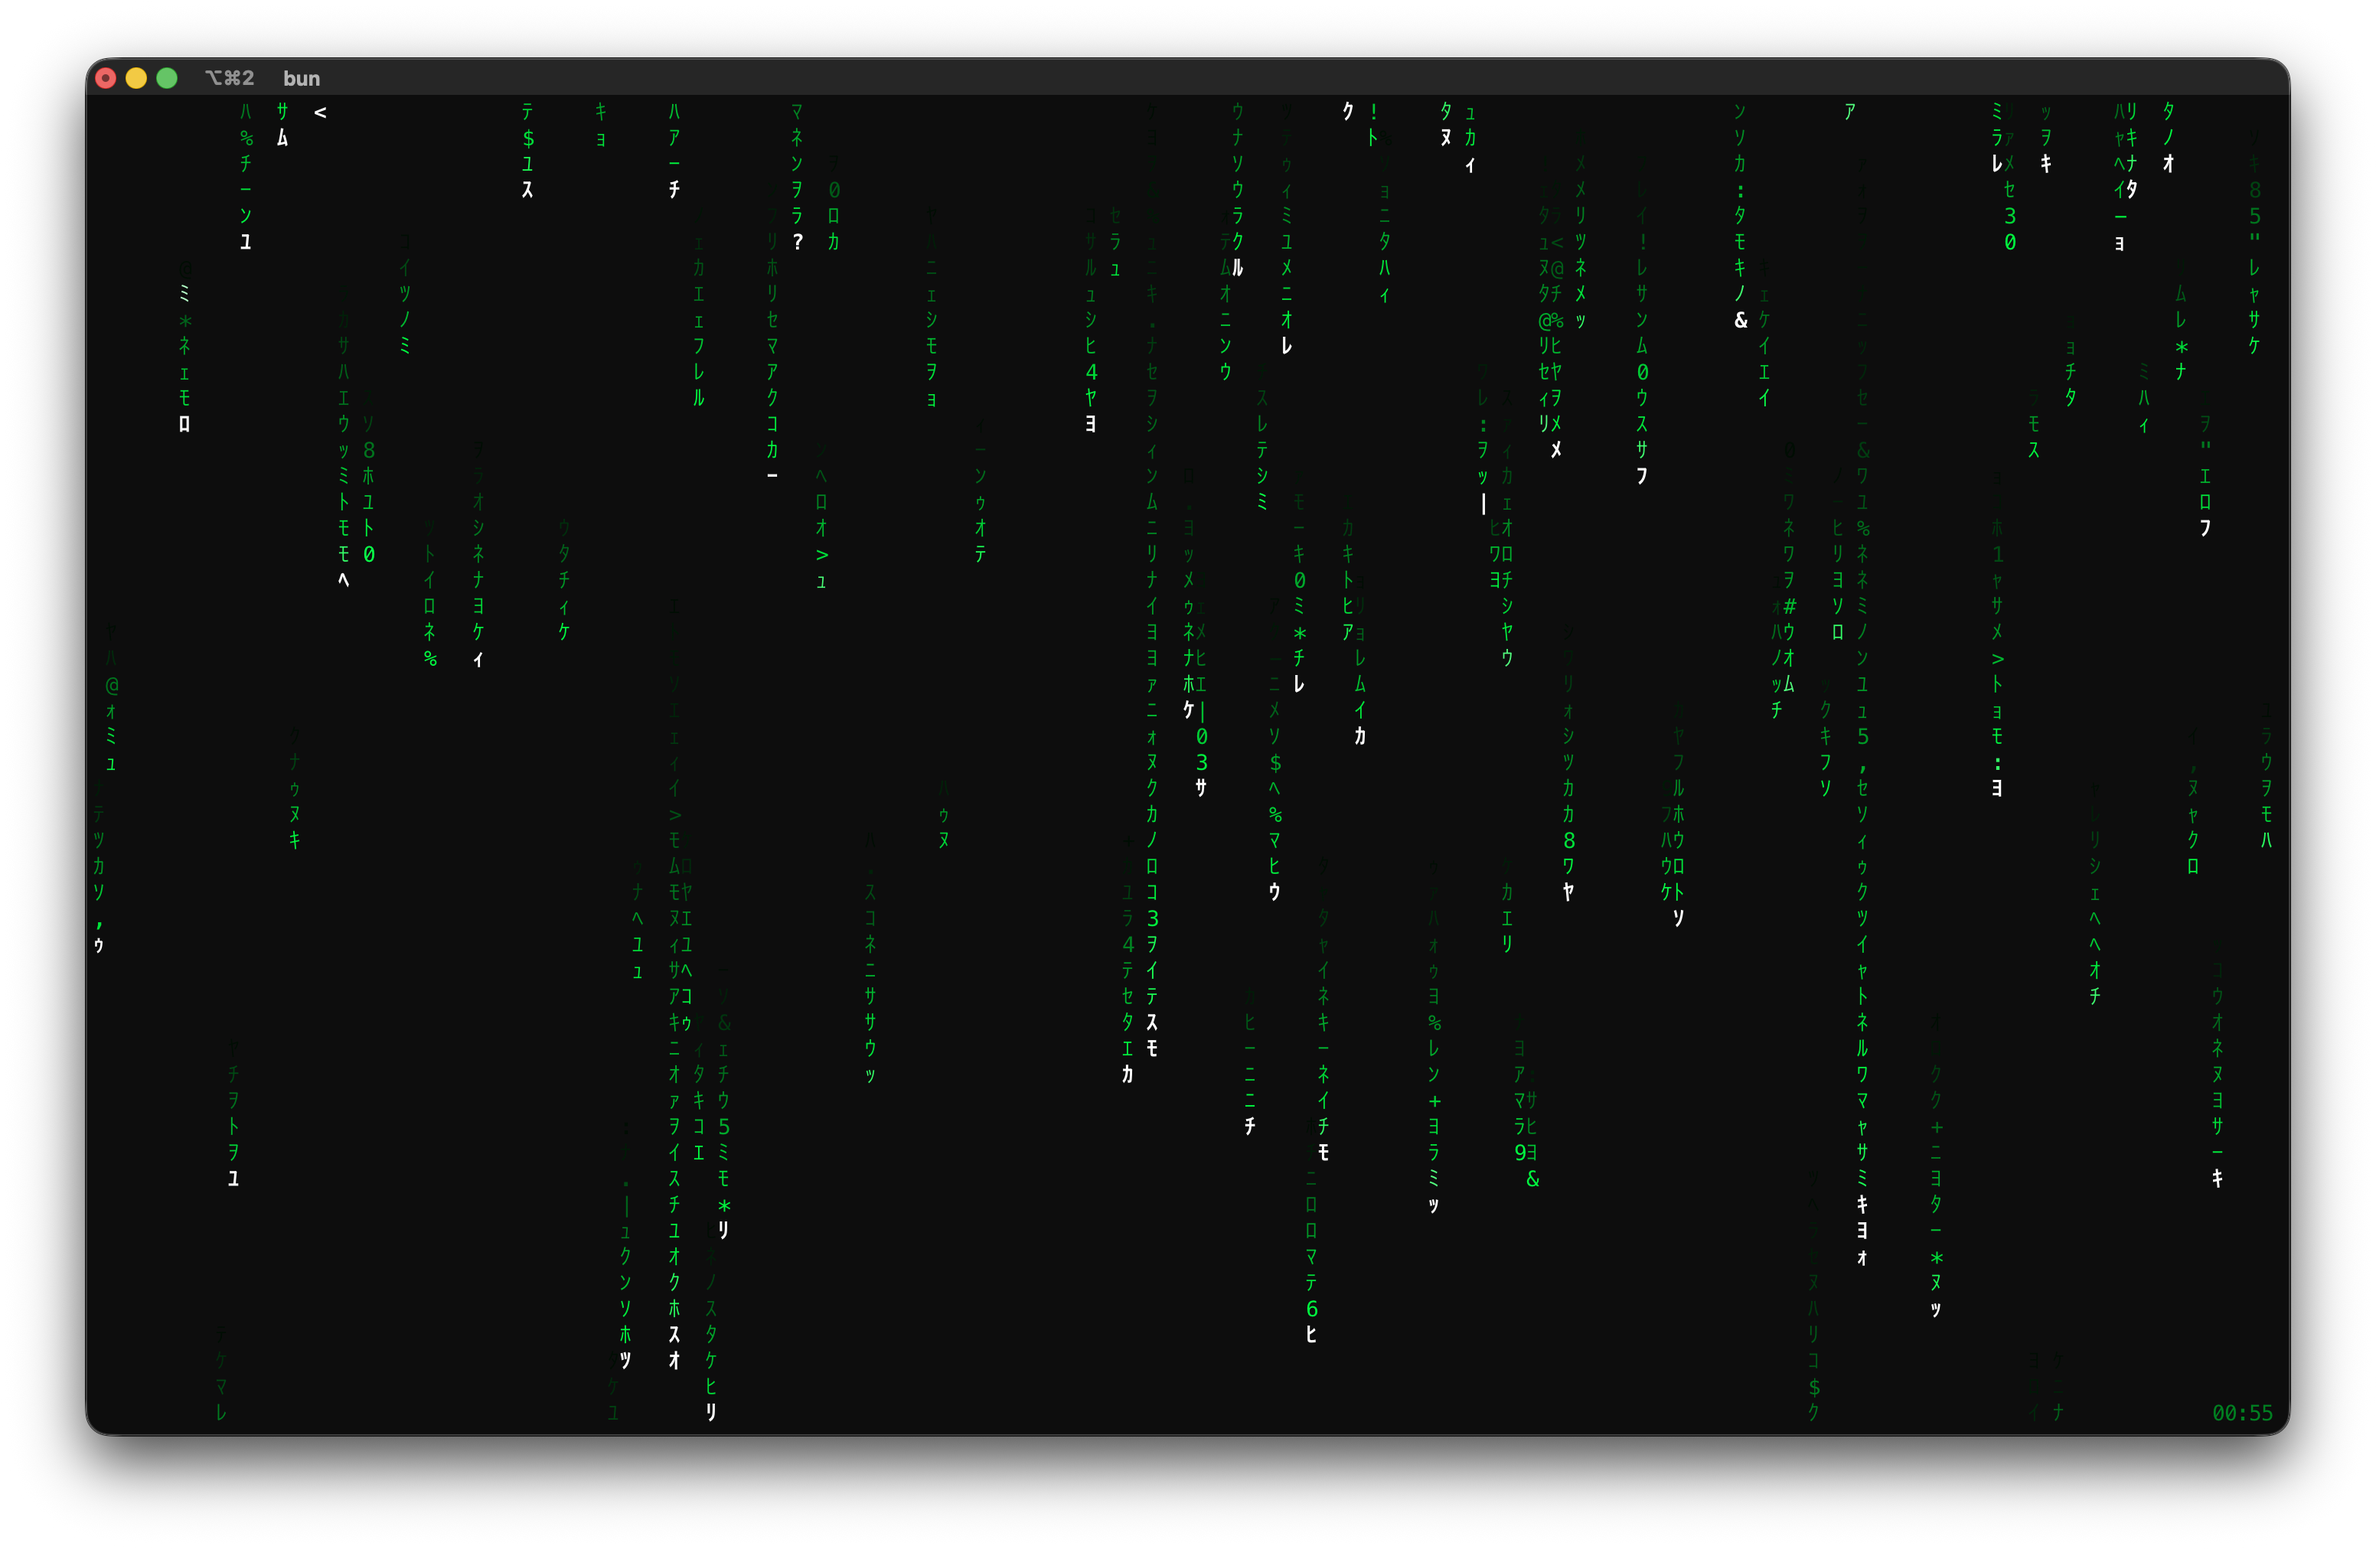
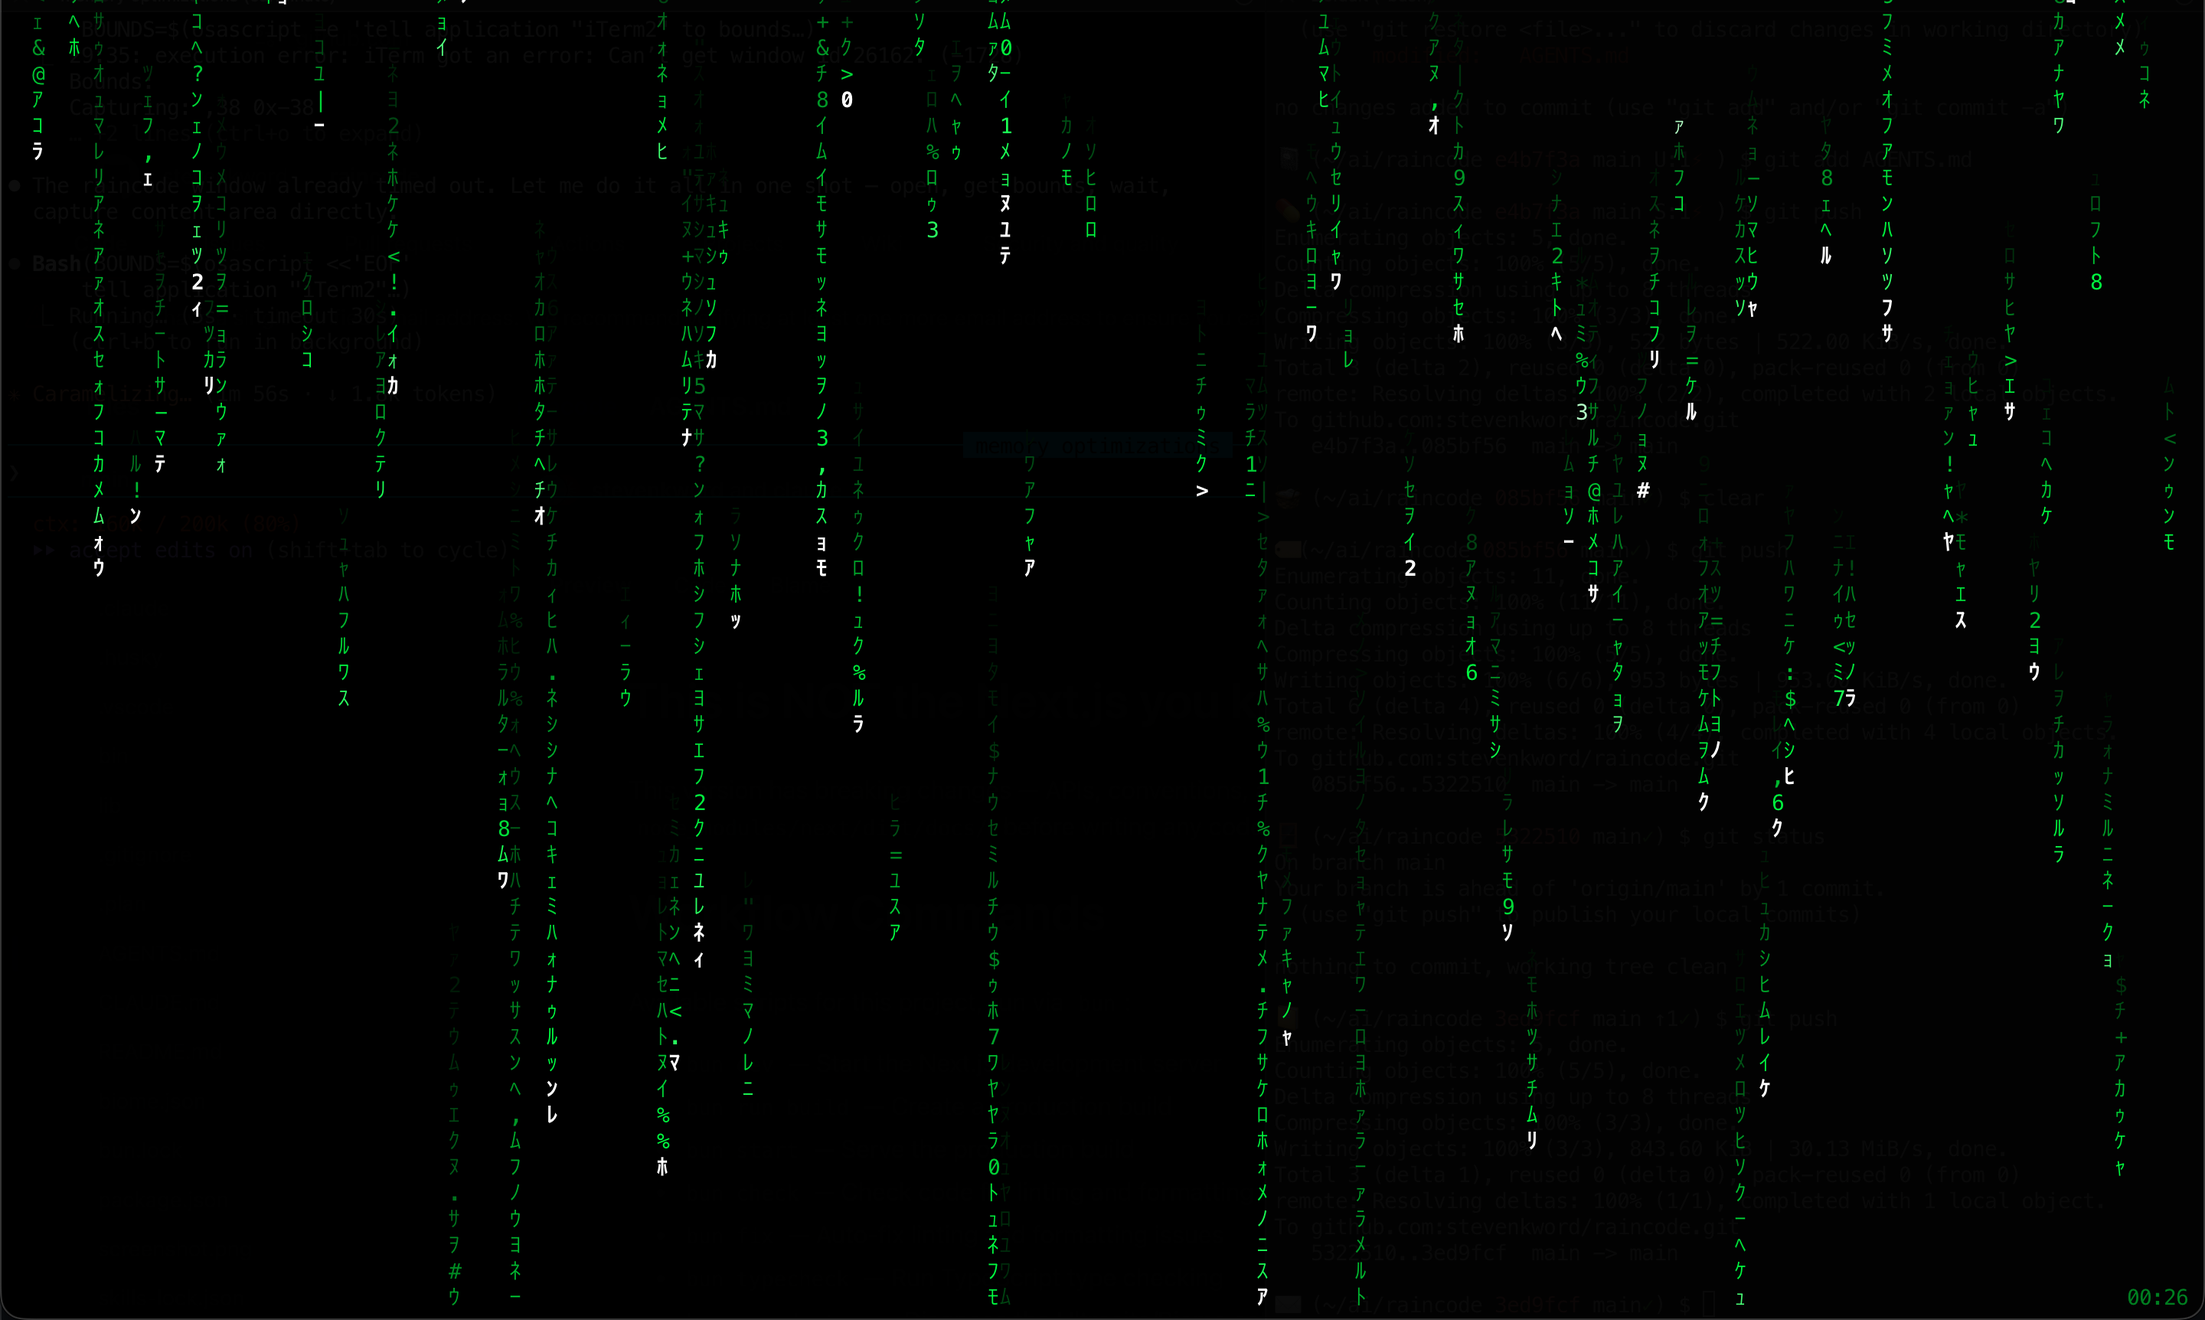
Screenshot guidelines in AGENTS.md; update screenshot frameless
- Document iTerm2 usage and no-window-frame rule in AGENTS.md
- Use screencapture -R to capture content area only, skipping the
  title bar so session names and commands are never exposed
- Retake screenshot.png using the new frameless approach

diff --git a/AGENTS.md b/AGENTS.md
@@ -193,3 +193,26 @@ Most formatting and common issues are automatically fixed by Biome. Run `bun fix
 ## Readme and Plan File
 
 When we make functional changes update the README.md and .plan files to accurately reflect the current state of the project.
+
+# Screenshots
+
+When taking screenshots of terminal apps on this system:
+
+1. **Use iTerm2**, not Terminal.app.
+2. **Never include the OS window frame** (title bar, traffic lights) — it leaks session names and command text.
+
+Capture the window, then crop the title bar with `sips` before saving:
+
+```bash
+# Capture the iTerm2 window (no shadow)
+screencapture -l$(osascript -e 'tell application "iTerm2" to id of front window') -x /tmp/shot.png
+
+# Crop off the title bar (38px on standard displays)
+sips -c $(($(sips -g pixelHeight /tmp/shot.png | awk '{print $2}') - 38)) \
+       $(sips -g pixelWidth /tmp/shot.png | awk '{print $2}') \
+     --padToHeightWidth $(($(sips -g pixelHeight /tmp/shot.png | awk '{print $2}') - 38)) \
+       $(sips -g pixelWidth /tmp/shot.png | awk '{print $2}') \
+     /tmp/shot.png --out /tmp/shot_cropped.png
+```
+
+Or use `sips --cropToHeightWidth` to trim the top 38px directly.
